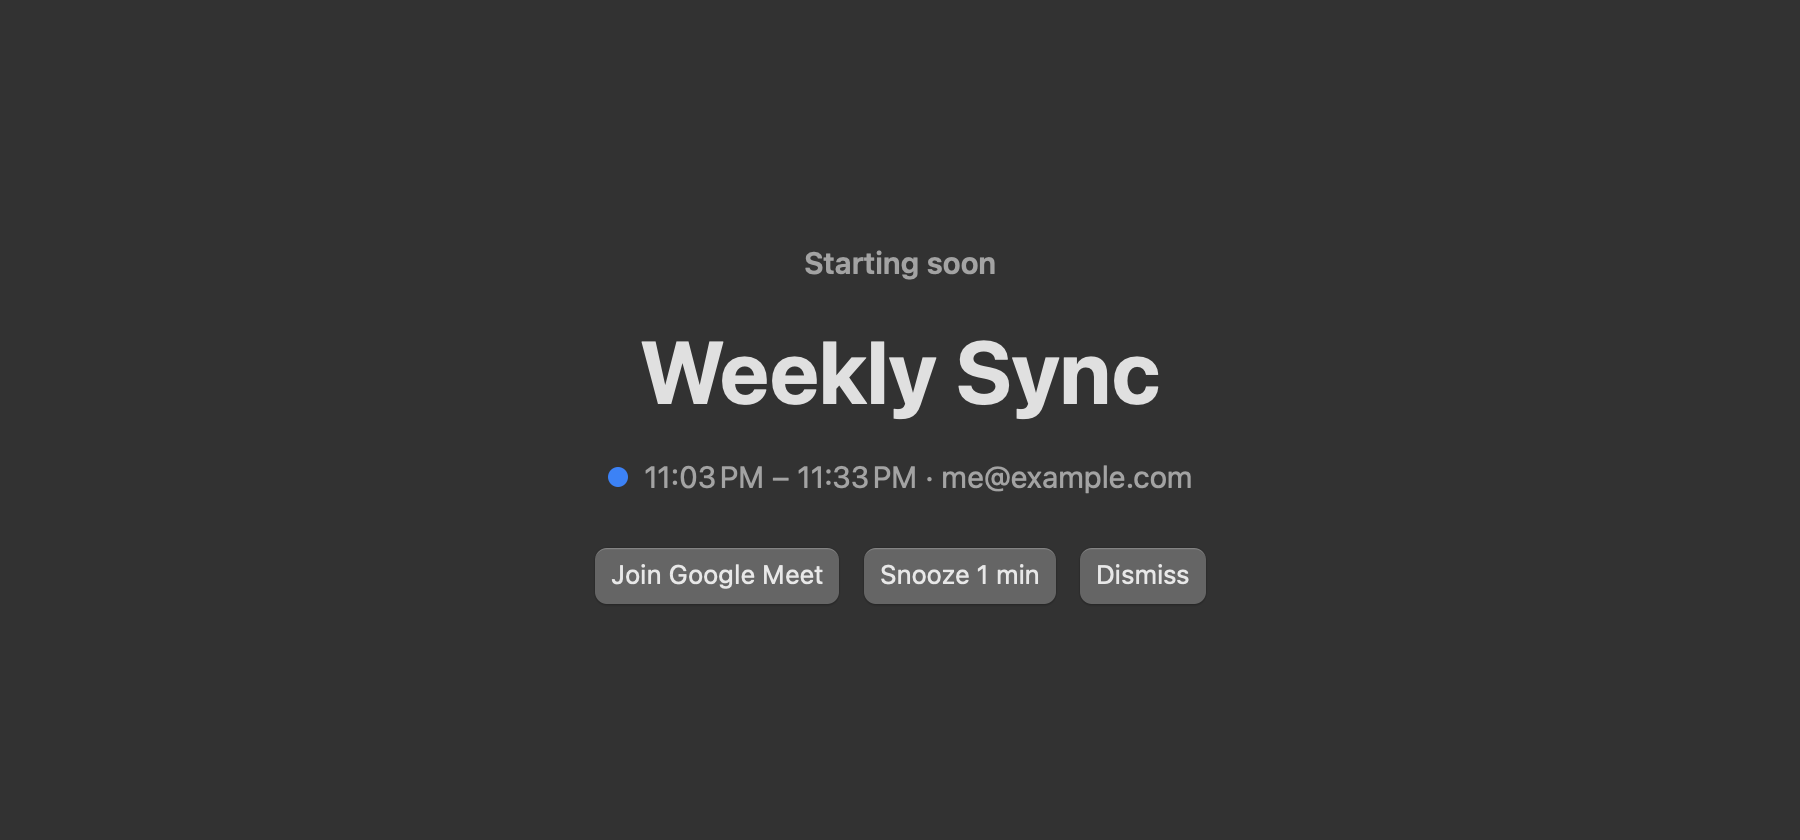
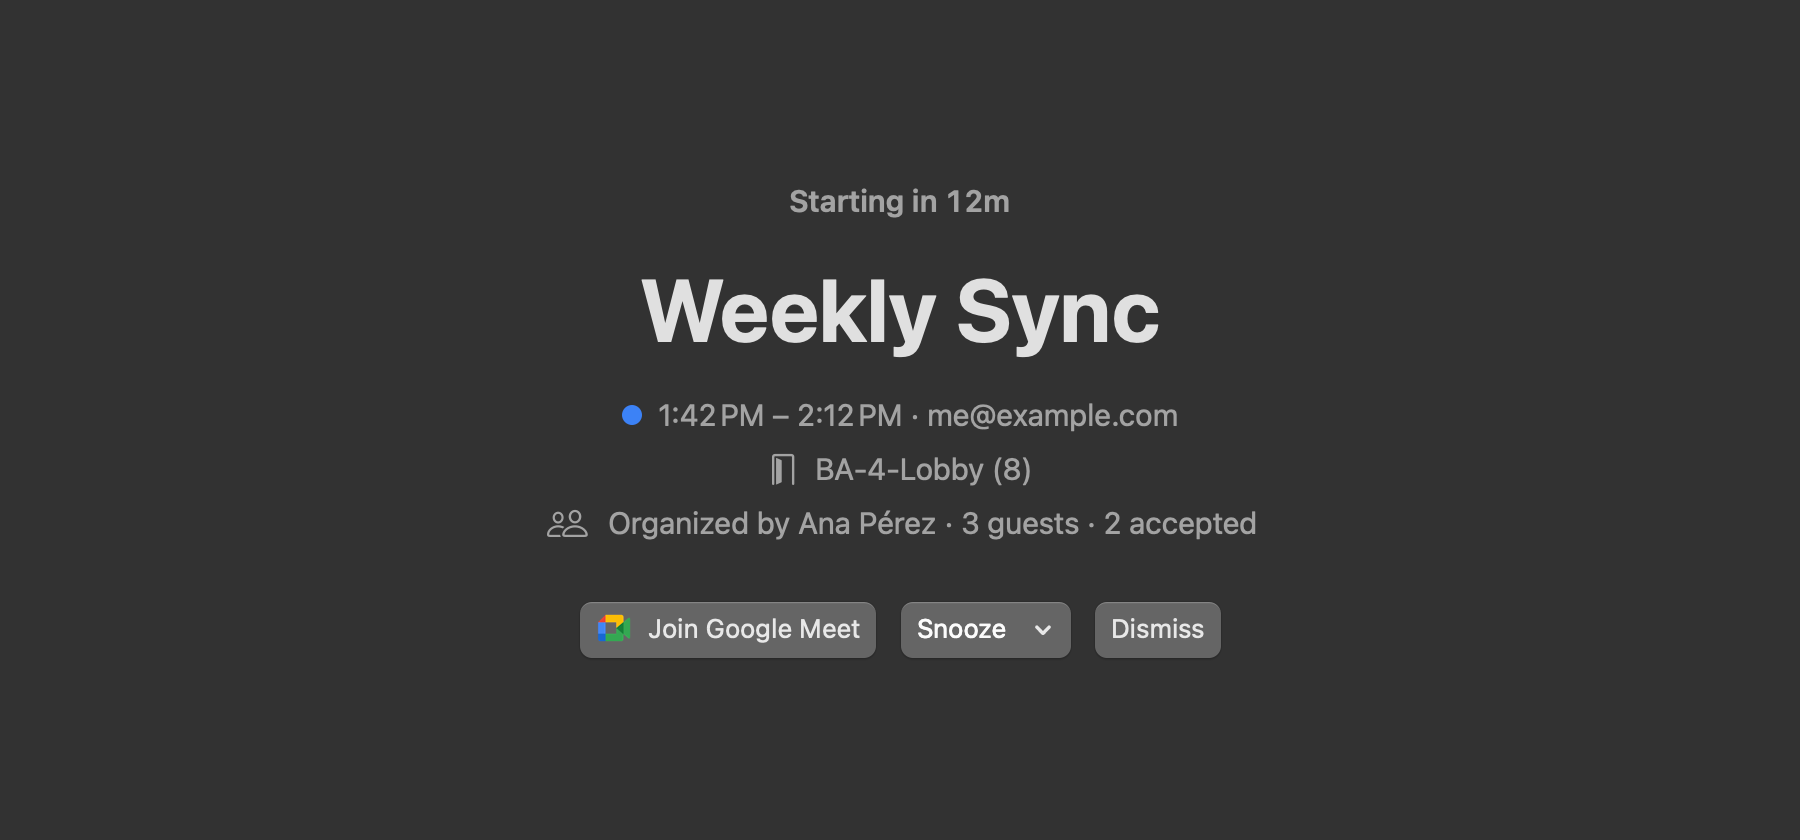
feat(alert): snooze menu, live countdown, room and guests on the full-screen alert
Snooze offers 1, 5 or 10 minutes, or until the meeting starts when the alert
fires early; a snoozed alert comes back even after the usual 5-minute window.
The headline counts down live and the room, organizer and accepted count are
shown. The window is released a run loop after its own button is clicked.
Alert timing and the location filter move to CalenbarCore with tests.

Changed region(s): [[0.3111, 0.2167, 0.7156, 0.8048]]

diff --git a/Sources/Calenbar/Alert/FullScreenAlertController.swift b/Sources/Calenbar/Alert/FullScreenAlertController.swift
@@ -5,8 +5,6 @@ import SwiftUI
 /// Full-screen reminder when a meeting starts. Checked on every minute tick.
 @MainActor
 final class FullScreenAlertController {
-    private static let window: TimeInterval = 5 * 60
-
     private let model: AppModel
     private var panel: AlertPanel?
     private var shownKeys: Set<String> = []
@@ -33,11 +31,7 @@ final class FullScreenAlertController {
             if let link = event.meetingLink, MeetingOpener.wasJoinedRecently(link) {
                 return false
             }
-            if let until = snoozedUntil[event.key], now < until {
-                return false
-            }
-            let fireAt = event.start.addingTimeInterval(-lead)
-            return now >= fireAt && now < event.start.addingTimeInterval(Self.window)
+            return AlertTiming.isDue(event: event, now: now, lead: lead, snoozedUntil: snoozedUntil[event.key])
         }
         if let due {
             show(due)
@@ -54,6 +48,7 @@ final class FullScreenAlertController {
             backing: .buffered,
             defer: false
         )
+        panel.isReleasedWhenClosed = false
         panel.level = .screenSaver
         panel.collectionBehavior = [.canJoinAllSpaces, .fullScreenAuxiliary]
         panel.isOpaque = false
@@ -65,14 +60,14 @@ final class FullScreenAlertController {
         blur.state = .active
         let content = NSHostingView(
             rootView: AlertView(
+                model: model,
                 event: event,
-                now: model.now,
                 join: { [weak self] link in
                     MeetingOpener.open(link)
                     self?.dismiss()
                 },
-                snooze: { [weak self] in
-                    self?.snoozedUntil[event.key] = Date().addingTimeInterval(60)
+                snooze: { [weak self] until in
+                    self?.snoozedUntil[event.key] = until
                     self?.shownKeys.remove(event.key)
                     self?.dismiss()
                 },
@@ -99,8 +94,11 @@ final class FullScreenAlertController {
     }
 
     private func dismiss() {
-        panel?.orderOut(nil)
-        panel = nil
+        guard let panel else { return }
+        self.panel = nil
+        panel.orderOut(nil)
+        // Called from a button inside the window: let the click finish before the window goes away.
+        DispatchQueue.main.async { panel.close() }
     }
 }
 
@@ -116,36 +114,65 @@ private final class AlertPanel: NSPanel {
 }
 
 struct AlertView: View {
+    let model: AppModel
     let event: CalendarEvent
-    let now: Date
     let join: (MeetingLink) -> Void
-    let snooze: () -> Void
+    /// Called with the moment the alert should come back.
+    let snooze: (Date) -> Void
     let dismiss: () -> Void
 
     var body: some View {
+        let now = model.now
         VStack(spacing: 18) {
-            Text(event.start > now ? String(localized: "Starting soon") : String(localized: "Starting now"))
+            Text(Self.headline(event: event, now: now))
                 .font(.title3.weight(.semibold))
                 .foregroundStyle(.secondary)
+                .monospacedDigit()
+                .contentTransition(.numericText())
             Text(TitleFormatter.displayTitle(event))
                 // A full-screen takeover; fixed size on purpose, well above `.largeTitle`.
                 .font(.system(size: 44, weight: .bold))
                 .multilineTextAlignment(.center)
                 .lineLimit(3)
-            HStack(spacing: 8) {
-                Circle().fill(Color(hex: event.calendarColorHex)).frame(width: 10, height: 10)
-                Text(verbatim: "\(EventTimeText.range(event)) · \(event.calendarTitle)")
+            VStack(spacing: 8) {
+                HStack(spacing: 8) {
+                    Circle().fill(Color(hex: event.calendarColorHex)).frame(width: 10, height: 10)
+                    Text(verbatim: "\(EventTimeText.range(event)) · \(event.calendarTitle)")
+                }
+                if let place {
+                    Label(place, systemImage: event.rooms.isEmpty ? "mappin.and.ellipse" : "door.left.hand.open")
+                        .lineLimit(1)
+                }
+                if let people {
+                    Label(people, systemImage: "person.2")
+                        .lineLimit(1)
+                }
             }
             .font(.title3)
             .foregroundStyle(.secondary)
 
             HStack(spacing: 12) {
                 if let link = event.meetingLink {
-                    Button("Join \(link.provider.displayName)") { join(link) }
-                        .keyboardShortcut(.defaultAction)
-                        .buttonStyle(.borderedProminent)
+                    Button {
+                        join(link)
+                    } label: {
+                        HStack(spacing: 8) {
+                            ProviderIconView(provider: link.provider, size: 18)
+                            Text("Join \(link.provider.displayName)")
+                        }
+                    }
+                    .keyboardShortcut(.defaultAction)
+                    .buttonStyle(.borderedProminent)
                 }
-                Button("Snooze 1 min", action: snooze)
+                Menu("Snooze") {
+                    if event.start.timeIntervalSince(now) > 60 {
+                        Button("When it starts") { snooze(event.start) }
+                    }
+                    ForEach(AlertTiming.snoozeMinutes, id: \.self) { minutes in
+                        Button("\(minutes) min") { snooze(Date().addingTimeInterval(TimeInterval(minutes * 60))) }
+                    }
+                }
+                .fixedSize()
                 Button("Dismiss", action: dismiss)
                     .keyboardShortcut(.cancelAction)
             }
@@ -155,5 +182,34 @@ struct AlertView: View {
         .padding(60)
         .frame(maxWidth: 900)
         .frame(maxWidth: .infinity, maxHeight: .infinity)
+    }
+
+    /// Rooms first (they're what you walk to); otherwise the free-text location when it says something.
+    private var place: String? {
+        event.rooms.isEmpty ? event.displayLocation : event.rooms.joined(separator: ", ")
+    }
+
+    /// "Organized by Ana · 6 guests · 4 accepted"; nothing for an event with no other guests.
+    private var people: String? {
+        let others = event.people.filter { !$0.isCurrentUser }
+        guard !others.isEmpty else { return nil }
+        let accepted = event.people.filter { $0.status == .accepted }.count
+        let counts = String(localized: "\(event.people.count) guests · \(accepted) accepted")
+        if let organizer = event.organizer, !organizer.isCurrentUser {
+            return String(localized: "Organized by \(organizer.displayName)") + " · " + counts
+        }
+        return counts
+    }
+
+    /// Live: "Starting in 2m", then "Starting now" for the first minute, then "Started 3m ago".
+    static func headline(event: CalendarEvent, now: Date) -> String {
+        let sinceStart = now.timeIntervalSince(event.start)
+        if sinceStart < 0 {
+            return String(localized: "Starting in \(TitleFormatter.compactDuration(-sinceStart))")
+        }
+        if sinceStart < 60 {
+            return String(localized: "Starting now")
+        }
+        return String(localized: "Started \(TitleFormatter.compactDuration(sinceStart)) ago")
     }
 }

diff --git a/Tests/CalenbarCoreTests/AlertTimingTests.swift b/Tests/CalenbarCoreTests/AlertTimingTests.swift
@@ -1,0 +1,51 @@
+import Foundation
+import Testing
+
+@testable import CalenbarCore
+
+struct AlertTimingTests {
+    private let start = Date(timeIntervalSince1970: 1_800_000_000)
+    private var event: CalendarEvent { Fixture.event("Sync", start, start.addingTimeInterval(30 * 60)) }
+
+    @Test func firesFromLeadUntilShortlyAfterStart() {
+        #expect(!AlertTiming.isDue(event: event, now: start.addingTimeInterval(-121), lead: 120, snoozedUntil: nil))
+        #expect(AlertTiming.isDue(event: event, now: start.addingTimeInterval(-120), lead: 120, snoozedUntil: nil))
+        #expect(AlertTiming.isDue(event: event, now: start.addingTimeInterval(4 * 60), lead: 0, snoozedUntil: nil))
+        #expect(!AlertTiming.isDue(event: event, now: start.addingTimeInterval(5 * 60), lead: 0, snoozedUntil: nil))
+    }
+
+    @Test func snoozeWaitsThenComesBackEvenAfterTheWindow() {
+        let until = start.addingTimeInterval(10 * 60)
+        #expect(!AlertTiming.isDue(event: event, now: start.addingTimeInterval(9 * 60), lead: 0, snoozedUntil: until))
+        #expect(AlertTiming.isDue(event: event, now: until, lead: 0, snoozedUntil: until))
+    }
+
+    @Test func snoozePastTheEndNeverFires() {
+        let until = start.addingTimeInterval(31 * 60)
+        #expect(!AlertTiming.isDue(event: event, now: until, lead: 0, snoozedUntil: until))
+    }
+}
+
+struct DisplayLocationTests {
+    private let start = Date(timeIntervalSince1970: 1_800_000_000)
+
+    @Test func hidesLocationsThatOnlyRepeatTheMeeting() {
+        let url = URL(string: "https://zoom.us/j/123")
+        #expect(
+            Fixture.event("Sync", start, start.addingTimeInterval(1_800), url: url, location: "https://zoom.us/j/123")
+                .displayLocation == nil)
+        #expect(
+            Fixture.event("Sync", start, start.addingTimeInterval(1_800), url: url, location: "Zoom Meeting").displayLocation
+                == nil)
+        #expect(Fixture.event("Sync", start, start.addingTimeInterval(1_800), url: url, location: "  ").displayLocation == nil)
+    }
+
+    @Test func keepsRealPlaces() {
+        let url = URL(string: "https://zoom.us/j/123")
+        #expect(
+            Fixture.event("Sync", start, start.addingTimeInterval(1_800), url: url, location: "Zoom Room 2").displayLocation
+                == "Zoom Room 2")
+        #expect(
+            Fixture.event("Sync", start, start.addingTimeInterval(1_800), location: " Floor 4 ").displayLocation == "Floor 4")
+    }
+}

diff --git a/Sources/Calenbar/Panel/EventDetailView.swift b/Sources/Calenbar/Panel/EventDetailView.swift
@@ -8,7 +8,7 @@ struct EventDetailView: View {
 
     var body: some View {
         let link = event.meetingLink
-        let location = displayLocation(link: link)
+        let location = event.displayLocation
         VStack(alignment: .leading, spacing: PanelStyle.medium) {
             // Header: what, which calendar.
             VStack(alignment: .leading, spacing: PanelStyle.tight) {
@@ -101,23 +101,6 @@ struct EventDetailView: View {
         }
         .padding(PanelStyle.inset)
         .frame(width: 300, alignment: .leading)
-    }
-
-    /// The location field often just repeats the meeting URL, or just names the service ("Microsoft
-    /// Teams Meeting"); only show it when it adds something. A real room called "Zoom Room 2" stays.
-    private func displayLocation(link: MeetingLink?) -> String? {
-        guard let location = event.location?.trimmingCharacters(in: .whitespacesAndNewlines), !location.isEmpty else {
-            return nil
-        }
-        if let link {
-            let service = link.provider.displayName.lowercased()
-            let normalized = location.lowercased()
-            let onlyTheService = [service, "\(service) meeting", "\(service) call"].contains(normalized)
-            if location.contains(link.webURL.host ?? "\u{0}") || onlyTheService {
-                return nil
-            }
-        }
-        return location
     }
 }
 

diff --git a/docs/index.html b/docs/index.html
@@ -178,7 +178,7 @@
       <p data-en>A notification with a Join button a minute before (or five, or ten). If you tend to lose track anyway, turn on the full-screen alert: it takes over the screen you're looking at when the meeting starts, and goes away with Join, Snooze or Esc.</p>
       <p data-es hidden>Una notificación con el botón Unirse un minuto antes (o cinco, o diez). Si igual se te pasa, activá la alerta a pantalla completa: cubre la pantalla que estés mirando cuando empieza la reunión, y se va con Unirse, Posponer o Esc.</p>
     </div>
-    <picture class=""><source srcset="img/alert-dark.png" media="(prefers-color-scheme: dark)"><img src="img/alert.png" alt="Full-screen alert: Starting soon, Weekly Sync, with Join, Snooze and Dismiss buttons" width="900" height="420"></picture>
+    <picture class=""><source srcset="img/alert-dark.png" media="(prefers-color-scheme: dark)"><img src="img/alert.png" alt="Full-screen alert: Starting in 12m, Weekly Sync, the room and who is coming, with Join, Snooze and Dismiss buttons" width="900" height="420"></picture>
   </section>
 
   <section class="faq" data-en>

diff --git a/Sources/CalenbarCore/Attendee.swift b/Sources/CalenbarCore/Attendee.swift
@@ -65,6 +65,23 @@ extension CalendarEvent {
     public var organizer: Attendee? {
         attendees.first { $0.isOrganizer }
     }
+
+    /// The location field often just repeats the meeting URL, or just names the service ("Microsoft
+    /// Teams Meeting"); only worth showing when it adds something. A real room called "Zoom Room 2" stays.
+    public var displayLocation: String? {
+        guard let location = location?.trimmingCharacters(in: .whitespacesAndNewlines), !location.isEmpty else {
+            return nil
+        }
+        if let link = meetingLink {
+            let service = link.provider.displayName.lowercased()
+            let normalized = location.lowercased()
+            let onlyTheService = [service, "\(service) meeting", "\(service) call"].contains(normalized)
+            if location.contains(link.webURL.host ?? "\u{0}") || onlyTheService {
+                return nil
+            }
+        }
+        return location
+    }
 }
 
 /// Builds a link that opens an event in Google Calendar on the web.

diff --git a/Sources/CalenbarCore/AlertTiming.swift b/Sources/CalenbarCore/AlertTiming.swift
@@ -1,0 +1,21 @@
+import Foundation
+
+/// When the full-screen alert for an event is due.
+public enum AlertTiming {
+    /// Minutes after the start during which a never-shown alert may still appear (the Mac was asleep,
+    /// the app was just launched).
+    public static let window: TimeInterval = 5 * 60
+
+    /// A snoozed alert comes back when the snooze ends, as long as the event is still running.
+    /// Otherwise it fires from `lead` before the start until shortly after it.
+    public static func isDue(event: CalendarEvent, now: Date, lead: TimeInterval, snoozedUntil: Date?) -> Bool {
+        if let snoozedUntil {
+            return now >= snoozedUntil && now < event.end
+        }
+        let fireAt = event.start.addingTimeInterval(-lead)
+        return now >= fireAt && now < event.start.addingTimeInterval(window)
+    }
+
+    /// Snooze lengths offered on the alert, in minutes.
+    public static let snoozeMinutes = [1, 5, 10]
+}

diff --git a/Sources/Calenbar/App/PreviewRenderer.swift b/Sources/Calenbar/App/PreviewRenderer.swift
@@ -24,7 +24,7 @@ enum PreviewRenderer {
             named: "panel-month", in: directory)
         try write(EventDetailView(model: fixtures.model, event: fixtures.meeting), named: "detail-card", in: directory)
         try write(
-            AlertView(event: fixtures.meeting, now: fixtures.model.now, join: { _ in }, snooze: {}, dismiss: {})
+            AlertView(model: fixtures.model, event: fixtures.meeting, join: { _ in }, snooze: { _ in }, dismiss: {})
                 .frame(width: 900, height: 420),
             named: "alert", in: directory)
         for page in SettingsWindow.pages(model: fixtures.model, uiState: SettingsUIState()) {

diff --git a/CHANGELOG.md b/CHANGELOG.md
@@ -12,11 +12,13 @@ Quieter notifications, and install from the terminal.
 - Settings › Notifications says when macOS has notifications turned off for Calenbar, with a button to fix it.
 - Install with Homebrew: `brew install --cask hercase/calenbar/calenbar` (trust the tap when asked).
 - Up to five world clocks, and the same time zone can't be added twice.
+- The full-screen alert shows the room, who organized the meeting and how many accepted, and counts down live. Snooze for 1, 5 or 10 minutes, or until the meeting starts.
 
 ### es
 - Ajustes › Notificaciones avisa cuando macOS tiene las notificaciones de Calenbar desactivadas, con un botón para arreglarlo.
 - Instalación con Homebrew: `brew install --cask hercase/calenbar/calenbar` (confiá en el tap cuando lo pida).
 - Hasta cinco relojes del mundo, y la misma zona horaria no se puede agregar dos veces.
+- La alerta a pantalla completa muestra la sala, quién organiza y cuántos aceptaron, y la cuenta regresiva se actualiza. Posponer por 1, 5 o 10 minutos, o hasta que empiece.
 
 ## 0.4.1 - 2026-10-16
 
